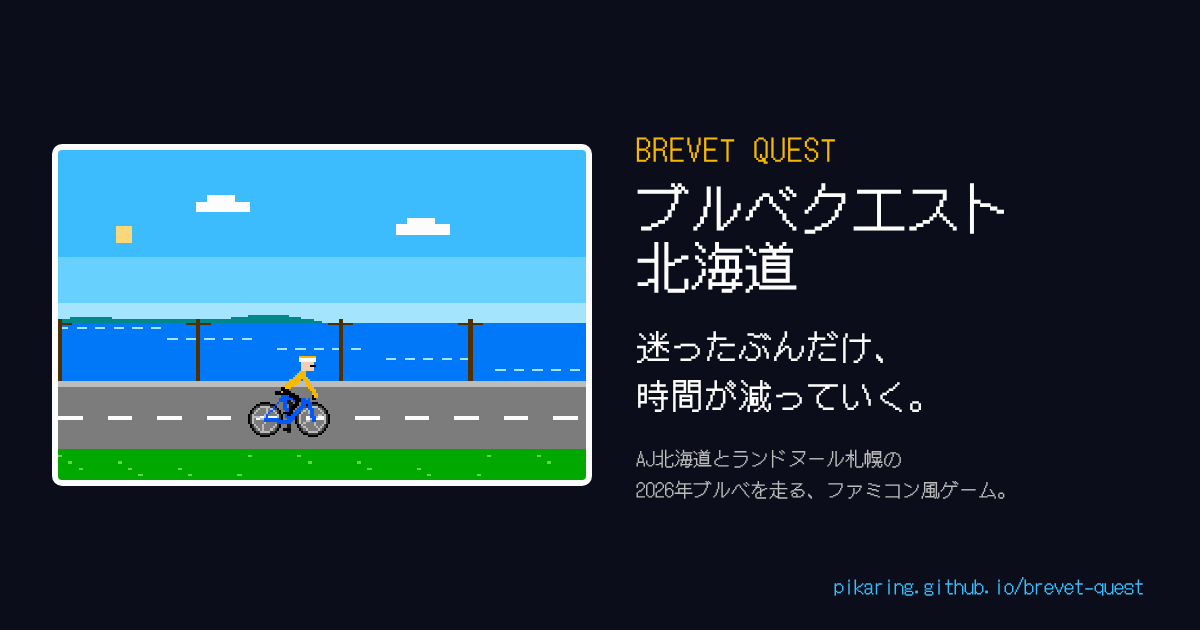
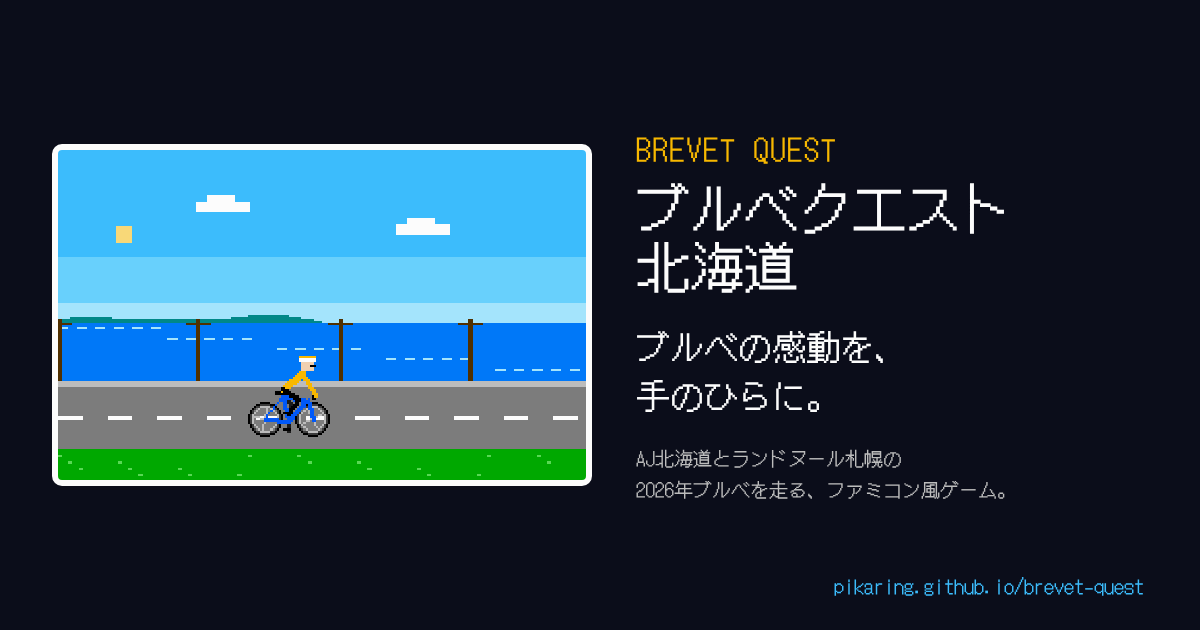
キャッチコピーを「ブルベの感動を、手のひらに。」に変更、スクリーンショットの縦横比を修正
img の height 属性で縦に引き伸ばされていたので height:auto に。OGP画像の見出しも差し替え。

Claude-Session: https://claude.ai/code/session_015UeBf5kKfem5CacwLkgUne

Changed region(s): [[0.5242, 0.6032, 0.7708, 0.6635], [0.5242, 0.5127, 0.74, 0.573]]

diff --git a/index.html b/index.html
@@ -7,7 +7,7 @@
 <meta name="description" content="インストール不要・ブラウザで遊べるファミコン風ブルベゲーム。2026年のAJ北海道とランドヌール札幌のブルベ日程で、4月から10月までの1シーズンを1週ずつ過ごす。コンビニで迷えば時間が減り、補給しなければ走れない。">
 <link rel="canonical" href="https://pikaring.github.io/brevet-quest/">
 <meta property="og:title" content="ブルベクエスト北海道">
-<meta property="og:description" content="迷ったぶんだけ、時間が減っていく。AJ北海道とランドヌール札幌の2026年ブルベを走る、ファミコン風ロードバイクゲーム。">
+<meta property="og:description" content="ブルベの感動を、手のひらに。AJ北海道とランドヌール札幌の2026年ブルベを走る、ファミコン風ロードバイクゲーム。">
 <meta property="og:type" content="website">
 <meta property="og:url" content="https://pikaring.github.io/brevet-quest/">
 <meta property="og:image" content="https://pikaring.github.io/brevet-quest/assets/og.png">
@@ -15,7 +15,7 @@
 <meta property="og:image:height" content="630">
 <meta name="twitter:card" content="summary_large_image">
 <meta name="twitter:title" content="ブルベクエスト北海道">
-<meta name="twitter:description" content="迷ったぶんだけ、時間が減っていく。AJ北海道とランドヌール札幌の2026年ブルベを走る、ファミコン風ロードバイクゲーム。">
+<meta name="twitter:description" content="ブルベの感動を、手のひらに。AJ北海道とランドヌール札幌の2026年ブルベを走る、ファミコン風ロードバイクゲーム。">
 <meta name="twitter:image" content="https://pikaring.github.io/brevet-quest/assets/og.png">
 <link rel="icon" href="assets/favicon.ico">
 <link rel="apple-touch-icon" href="assets/icon.png">
@@ -74,7 +74,7 @@
     <div class="wrap hero-grid">
       <div>
         <span class="pill"><b>無料</b> · インストール不要 · ファミコン風 · MIT License</span>
-        <h1>迷ったぶんだけ、<br>時間が減っていく。</h1>
+        <h1>ブルベの感動を、<br>手のひらに。</h1>
         <p class="lead">AJ北海道とランドヌール札幌の2026年のブルベ日程で、4月から10月までを1週ずつ過ごすゲーム。
           自転車と装備をそろえ、前日に荷物を詰めて、スタート地点へ。
           コンビニで何を買うか迷っている間も時計は進み、ちゃんと補給しないと脚が止まります。</p>

diff --git a/assets/site.css b/assets/site.css
@@ -303,10 +303,10 @@ details p { margin-top: 12px; font-size: 15px; padding-left: 24px; }
 
 /* ---- ブルベクエスト用の追加 ---- */
 .shot-phone { justify-self: center; width: 330px; max-width: 100%; background: #000; border-radius: 34px; padding: 12px; box-shadow: 0 30px 60px -24px #1d233066; }
-.shot-phone img { border-radius: 22px; width: 100%; }
+.shot-phone img { border-radius: 22px; width: 100%; height: auto; }
 .shots { display: grid; grid-template-columns: repeat(4, 1fr); gap: 16px; margin-top: 8px; }
 .shots figure { margin: 0; background: #000; border-radius: 18px; padding: 8px; }
-.shots img { border-radius: 12px; }
+.shots img { border-radius: 12px; width: 100%; height: auto; }
 .shots figcaption { color: #c9ced8; font-size: 12.5px; padding: 8px 4px 2px; line-height: 1.5; }
 .table-wrap { overflow-x: auto; border: 1px solid var(--line); border-radius: 14px; background: var(--white); }
 table.courses { border-collapse: collapse; width: 100%; min-width: 640px; font-size: 14px; font-variant-numeric: tabular-nums; }
